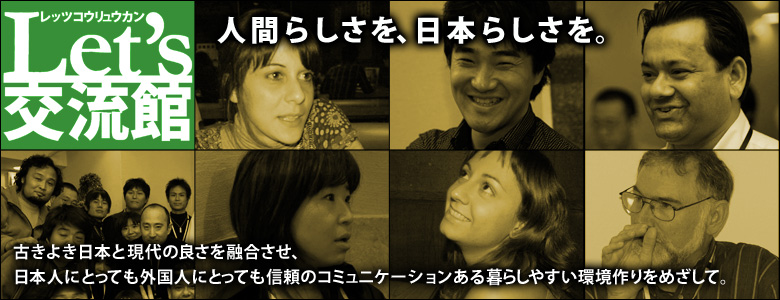
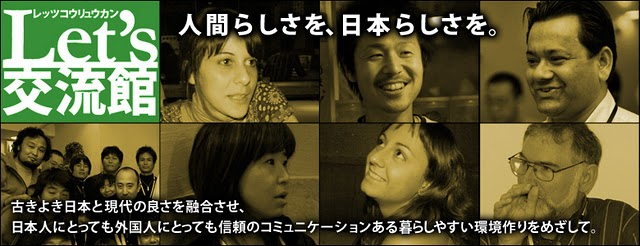
イベントページに交流会のお知らせを掲載。ヘッダ画像の変更

diff --git a/index.html b/index.html
@@ -142,7 +142,7 @@
       
     <div id="news"> 
       <p>
-<object width="480" height="385"><param name="wmode" value="transparent"><param name="movie" value="http://www.youtube.com/v/XhUYbptSLTE?fs=1&amp;hl=ja_JP"></param><param name="allowFullScreen" value="true"></param><param name="allowscriptaccess" value="always"></param><embed src="http://www.youtube.com/v/XhUYbptSLTE?fs=1&amp;hl=ja_JP" type="application/x-shockwave-flash" allowscriptaccess="always" allowfullscreen="true" width="380" height="315" wmode="transparent"></embed></object>
+<object width="480" height="385"><param name="wmode" value="transparent"><param name="movie" value="http://www.youtube.com/v/Ml8YhkwWkdg?hl=ja&fs=1&amp;hl=ja_JP"></param><param name="allowFullScreen" value="true"></param><param name="allowscriptaccess" value="always"></param><embed src="http://www.youtube.com/v/Ml8YhkwWkdg?hl=ja&fs=1&amp;hl=ja_JP" type="application/x-shockwave-flash" allowscriptaccess="always" allowfullscreen="true" width="380" height="315" wmode="transparent"></embed></object>
       </p>
 
       <p>レッツ交流館とは、希薄化が進む現代で、古きよき日本と現代の良さを融合させた、日本人にとっても外国人にとっても信頼のコミュニケーションある暮らしやすい環境作りを実現させる為の活動をしている団体です。</p>

diff --git a/event.html b/event.html
@@ -133,6 +133,7 @@ document.write("<br/><br/>");
     <li><a href="images/event/20101218/l/event_img12.jpg" rel="lightbox[20101218]"><img src="images/event/20101218/s/event_img12.jpg"/></a></li>
   </ul>
 
+<object width="425" height="344"><param name="movie" value="http://www.youtube.com/v/Ml8YhkwWkdg?hl=ja&fs=1"></param><param name="allowFullScreen" value="true"></param><param name="allowscriptaccess" value="always"></param><embed src="http://www.youtube.com/v/Ml8YhkwWkdg?hl=ja&fs=1" type="application/x-shockwave-flash" allowscriptaccess="always" allowfullscreen="true" width="425" height="344"></embed></object> 
 </div>
 
 </dl>
